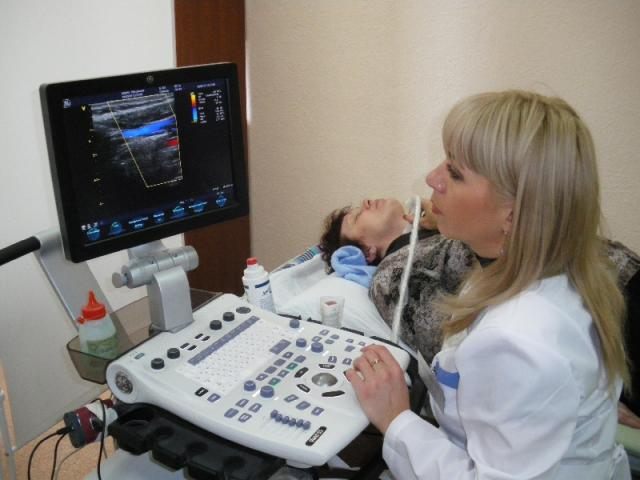
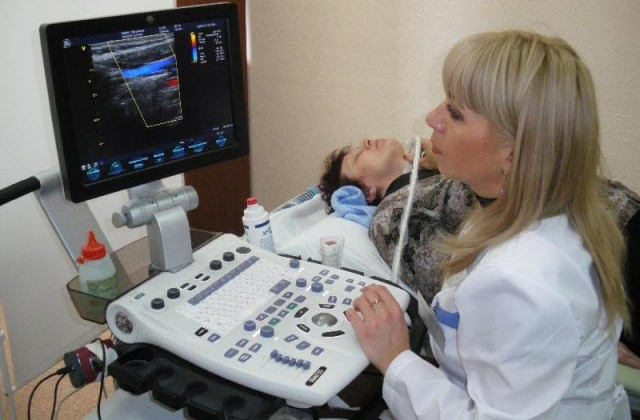
Изменение размера изображений на экране приветствия

diff --git a/app/assets/stylesheets/zzz.css b/app/assets/stylesheets/zzz.css
@@ -118,3 +118,7 @@ footer.panel {
   top: 0px;
   right: 5px;
 }
+.welcome-img {
+  max-width: 100%;
+  height: auto;
+}
